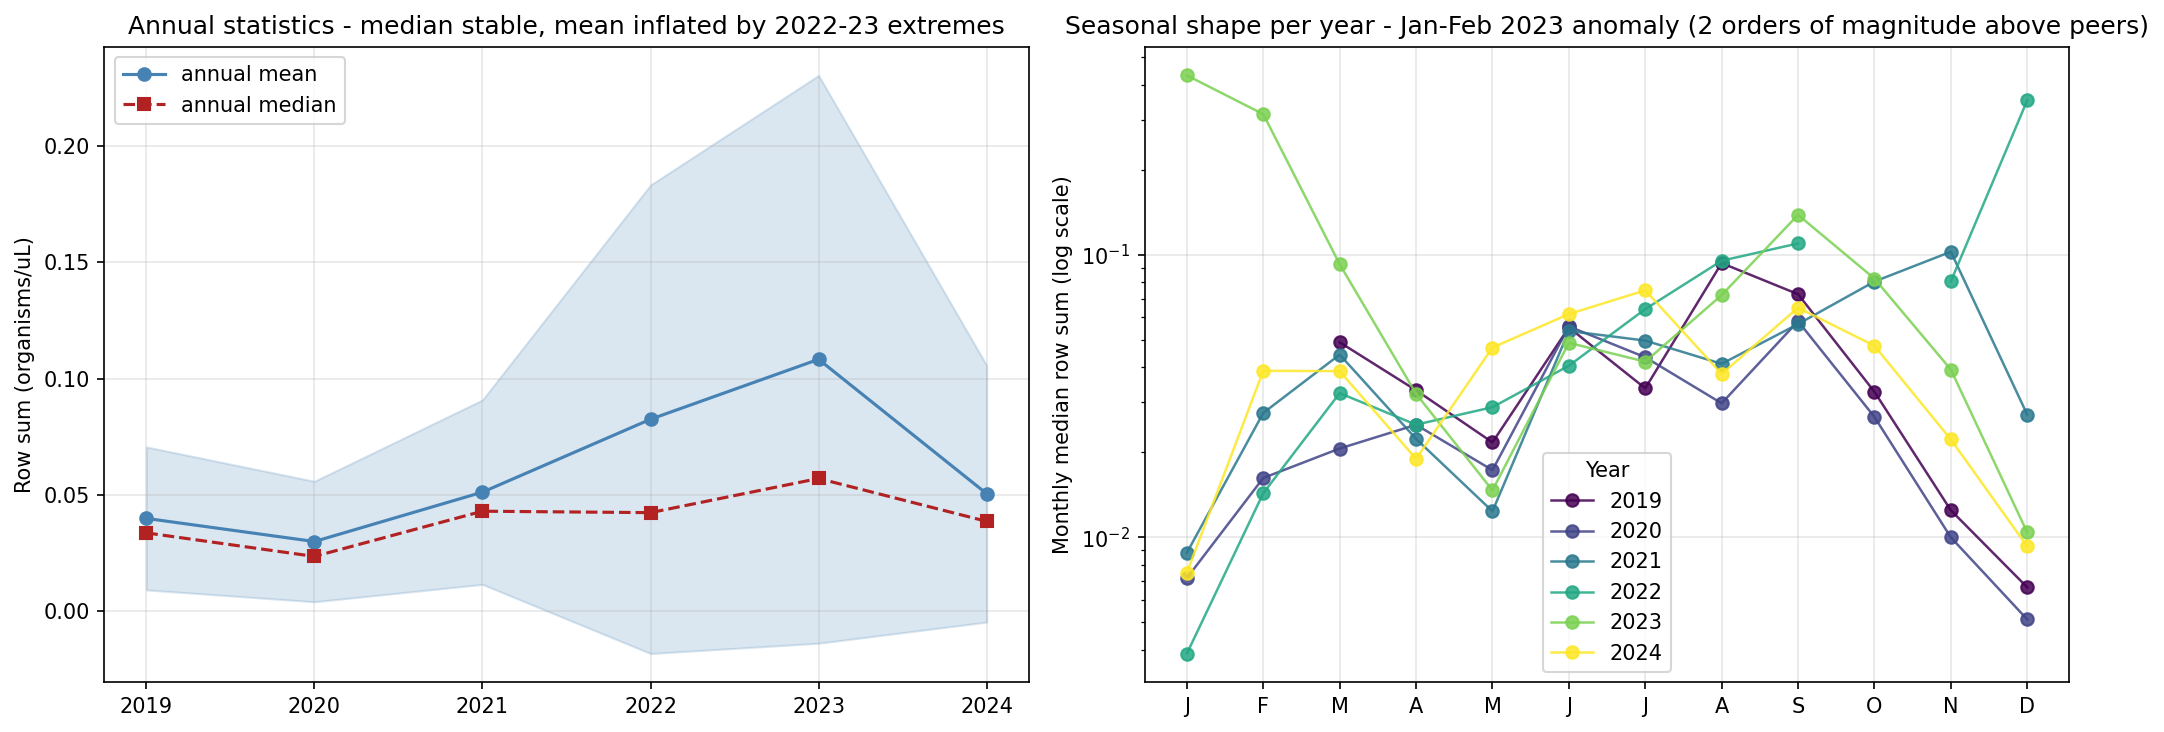
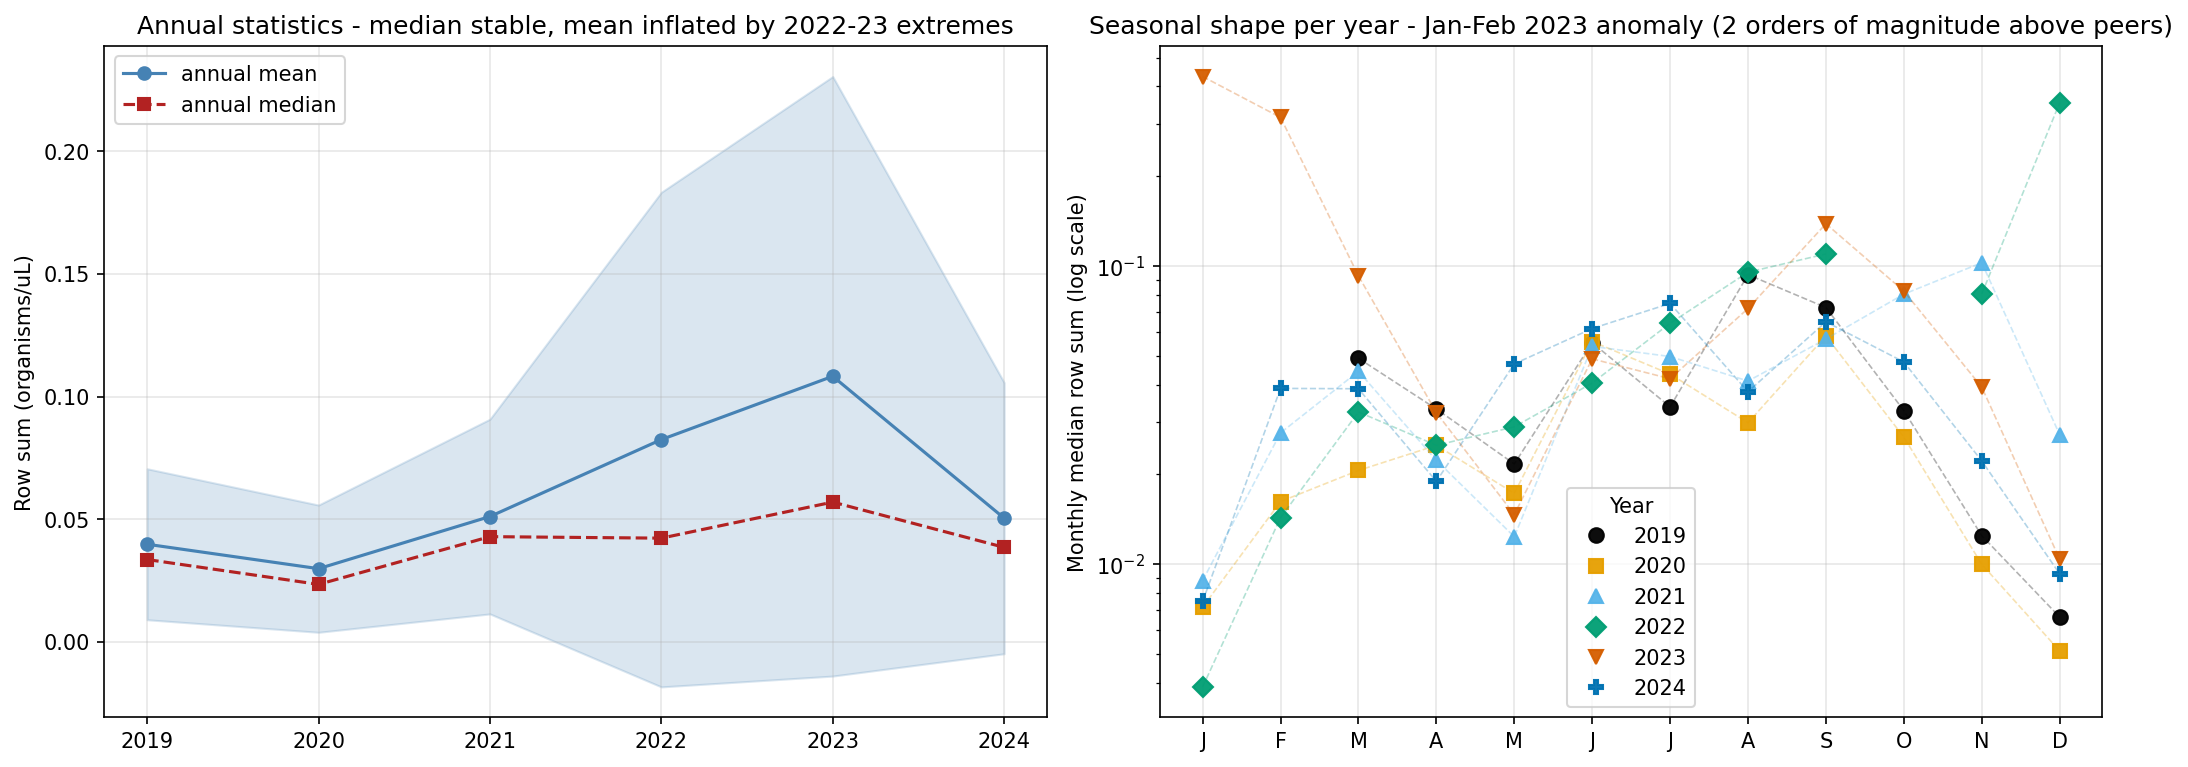
Fix fig3/fig4 exploratory plots and split sweep_final_metric by family
fig3: colorblind-safe Okabe-Ito palette + per-year markers, scatter
with faint dashed connectors instead of solid lines, legend moved
back inside the panel, constrained_layout to avoid title overlap.

fig4: correct row-0 ylabel (was mislabeled with the raw-count units,
which belong on the x axis), LaTeX-rendered title/subtitle, larger
fonts, single-line "taxon (~N% zeros)" panel titles computed directly
from the plotted data.

plot_final_metric now writes one figure per family group (bernoulli_median,
bernoulli_zero, nb, zinb) instead of 10 cramped panels in one figure; nb/zinb
panels overlay their activation-profile variants distinguished by marker
shape, and all panels show a min/max-over-seeds band alongside mean+-std.

Regenerated via dataset_analysis.py and sweep_analysis.py (both splits),
republished through publish_results.py; stale sweep_final_metric.png
files and their MANIFEST.json entries removed.

diff --git a/code/scripts/train/dataset_analysis.py b/code/scripts/train/dataset_analysis.py
@@ -169,7 +169,7 @@ def fig3_annual_seasonal(df_clean, taxa_cols, out_dir):
     annual  = df_clean.groupby("year")["row_sum"].agg(["median", "mean", "std"])
     monthly = df_clean.groupby(["year", "month"])["row_sum"].median().unstack(0)
 
-    fig, axes = plt.subplots(1, 2, figsize=(14, 5))
+    fig, axes = plt.subplots(1, 2, figsize=(14, 5), constrained_layout=True)
 
     # Left: annual stats
     years = annual.index
@@ -189,13 +189,18 @@ def fig3_annual_seasonal(df_clean, taxa_cols, out_dir):
     ax.grid(True, alpha=0.3)
 
     # Right: seasonal shape per year (log scale)
-    ax2    = axes[1]
-    colors = plt.cm.viridis(np.linspace(0, 1, 6))
+    # Okabe-Ito palette: colorblind-safe (deuteranopia/protanopia/tritanopia),
+    # paired with distinct markers so lines don't rely on color alone.
+    ax2 = axes[1]
+    year_colors  = ["#000000", "#E69F00", "#56B4E9", "#009E73", "#D55E00", "#0072B2"]
+    year_markers = ["o", "s", "^", "D", "v", "P"]
     month_labels = ["J","F","M","A","M","J","J","A","S","O","N","D"]
     for i, yr in enumerate([2019, 2020, 2021, 2022, 2023, 2024]):
         if yr in monthly.columns:
-            ax2.semilogy(monthly.index, monthly[yr], "o-",
-                         color=colors[i], lw=1.2, alpha=0.85, label=str(yr))
+            ax2.semilogy(monthly.index, monthly[yr], linestyle="--", lw=4.0,
+                         color=year_colors[i], alpha=0.3)
+            ax2.semilogy(monthly.index, monthly[yr], marker=year_markers[i], linestyle="none",
+                         color=year_colors[i], markersize=7, alpha=0.95, label=str(yr))
     ax2.set_xticks(range(1, 13))
     ax2.set_xticklabels(month_labels)
     ax2.set_title("Seasonal shape per year - Jan-Feb 2023 anomaly (2 orders of magnitude above peers)")
@@ -203,7 +208,6 @@ def fig3_annual_seasonal(df_clean, taxa_cols, out_dir):
     ax2.legend(title="Year")
     ax2.grid(True, alpha=0.3)
 
-    plt.tight_layout()
     path = os.path.join(out_dir, "fig3_annual_seasonal.png")
     plt.savefig(path, dpi=150, bbox_inches="tight")
     plt.close()
@@ -220,60 +224,59 @@ def fig4_distributions(df_clean, taxa_cols, out_dir, eps_fraction=EPS_FRACTION):
     eps = min_nonzero * eps_fraction
     print(f"  log-transform eps = {eps:.2e}  (min nonzero = {min_nonzero:.2e})")
 
-    selected = [
-        ("aulacoseira", "dominant  | ~3% zeros"),
-        ("cryptophyte", "common    | ~0% zeros"),
-        ("rotifer",     "intermed. | ~0% zeros"),
-        ("snowella",    "rare      | ~93% zeros"),
-    ]
+    selected = ["aulacoseira", "cryptophyte", "rotifer", "snowella"]
 
     fig, axes = plt.subplots(3, 4, figsize=(16, 10))
 
-    for ci, (taxon, label) in enumerate(selected):
+    for ci, taxon in enumerate(selected):
         raw  = df_clean[taxon].values.astype(float)
         logv = np.log(raw + eps)
         zlog = (logv - logv.mean()) / (logv.std() + 1e-10)
 
         # Row 0: raw counts
         axes[0, ci].hist(raw, bins=60, color="steelblue", alpha=0.8, edgecolor="none")
-        axes[0, ci].set_title(f"{taxon}\n({label})", fontsize=8)
+        axes[0, ci].set_title(f"{taxon} (~{(raw == 0).mean():.0%} zeros)", fontsize=14)
         axes[0, ci].text(
             0.97, 0.95,
-            f"skew={stats.skew(raw):.1f}\nzeros={(raw == 0).mean():.0%}",
-            transform=axes[0, ci].transAxes, ha="right", va="top", fontsize=7,
+            f"skew={stats.skew(raw):.1f}",
+            transform=axes[0, ci].transAxes, ha="right", va="top", fontsize=11,
             bbox=dict(boxstyle="round", fc="white", alpha=0.8),
         )
         axes[0, ci].grid(True, alpha=0.3)
+        axes[0, ci].tick_params(labelsize=11)
 
         # Row 1: log-transformed
         axes[1, ci].hist(logv, bins=60, color="darkorange", alpha=0.8, edgecolor="none")
         axes[1, ci].text(
             0.97, 0.95, f"skew={stats.skew(logv):.1f}",
-            transform=axes[1, ci].transAxes, ha="right", va="top", fontsize=7,
+            transform=axes[1, ci].transAxes, ha="right", va="top", fontsize=11,
             bbox=dict(boxstyle="round", fc="white", alpha=0.8),
         )
         axes[1, ci].grid(True, alpha=0.3)
+        axes[1, ci].tick_params(labelsize=11)
 
         # Row 2: log + z-score vs N(0,1)
         axes[2, ci].hist(zlog, bins=60, color="seagreen", alpha=0.8,
-                         edgecolor="none", density=True, label="log+zscore")
+                         edgecolor="none", density=True, label="bin")
         x = np.linspace(zlog.min(), zlog.max(), 200)
-        axes[2, ci].plot(x, stats.norm.pdf(x), "k--", lw=1.5, label="N(0,1)")
+        axes[2, ci].plot(x, stats.norm.pdf(x), "k--", lw=1.5, label=r"$\mathcal{N}(0,1)$")
         axes[2, ci].text(
             0.97, 0.95, f"skew={stats.skew(zlog):.1f}",
-            transform=axes[2, ci].transAxes, ha="right", va="top", fontsize=7,
+            transform=axes[2, ci].transAxes, ha="right", va="top", fontsize=11,
             bbox=dict(boxstyle="round", fc="white", alpha=0.8),
         )
-        axes[2, ci].legend(fontsize=6)
+        axes[2, ci].legend(fontsize=11)
         axes[2, ci].grid(True, alpha=0.3)
+        axes[2, ci].tick_params(labelsize=11)
 
-    axes[0, 0].set_ylabel("Raw counts\n(organisms/uL)")
-    axes[1, 0].set_ylabel("Log-transformed\nlog(v + eps)")
-    axes[2, 0].set_ylabel("Log + z-score\nvs N(0,1)")
+    axes[0, 0].set_ylabel("Frequency", fontsize=13)
+    axes[1, 0].set_ylabel("Frequency", fontsize=13)
+    axes[2, 0].set_ylabel("Density", fontsize=13)
     fig.suptitle(
-        "Marginal distributions: raw -> log-transform -> z-score\n"
-        "All taxa are zero-inflated and right-skewed; log-transform substantially reduces skew",
-        fontsize=11, y=1.01,
+        r"Marginal distributions: 1) raw  -  2) log-transform  -  3) $z$-score" "\n"
+        r"X axis: 1) organisms/uL (raw counts)   2) $\log(v + \epsilon)$   "
+        r"3) $z$-score (standardized log, dimensionless)",
+        fontsize=16, y=1.01,
     )
 
     plt.tight_layout()

diff --git a/code/src/models/visualization.py b/code/src/models/visualization.py
@@ -202,49 +202,97 @@ def load_curves(csv_path: Path, col: str) -> pd.Series | None:
     return df.set_index("epoch")[col]
 
 
-def aggregate_curves(csv_paths: list[Path], col: str) -> tuple[pd.Series, pd.Series] | None:
-    """Aggregate a metric across seeds; return (mean, std) or None if all failed."""
+def _aggregate_df(csv_paths: list[Path], col: str) -> pd.DataFrame | None:
     curves = [load_curves(p, col) for p in csv_paths]
     curves = [c for c in curves if c is not None]
     if not curves:
         return None
-    df = pd.concat(curves, axis=1)
+    return pd.concat(curves, axis=1)
+
+
+def aggregate_curves(csv_paths: list[Path], col: str) -> tuple[pd.Series, pd.Series] | None:
+    """Aggregate a metric across seeds; return (mean, std) or None if all failed."""
+    df = _aggregate_df(csv_paths, col)
+    if df is None:
+        return None
     return df.mean(axis=1), df.std(axis=1)
 
 
+def aggregate_curves_extrema(
+    csv_paths: list[Path], col: str
+) -> tuple[pd.Series, pd.Series, pd.Series, pd.Series] | None:
+    """Aggregate a metric across seeds; return (mean, std, min, max) or None if all failed."""
+    df = _aggregate_df(csv_paths, col)
+    if df is None:
+        return None
+    return df.mean(axis=1), df.std(axis=1), df.min(axis=1), df.max(axis=1)
+
+
+# Panels for plot_final_metric: each becomes its own figure/file. nb and zinb
+# each bundle their 4 activation profiles (plain/relu/sigmoid/softmax) into one
+# plot, distinguished by marker shape so profiles stay comparable across L.
+PANEL_GROUPS = [
+    ("bernoulli_median", ["bernoulli_median"]),
+    ("bernoulli_zero",   ["bernoulli_zero"]),
+    ("nb",               ["nb", "nb_relu", "nb_sigmoid", "nb_softmax"]),
+    ("zinb",             ["zinb", "zinb_relu", "zinb_sigmoid", "zinb_softmax"]),
+]
+
+PROFILE_MARKERS = {"": "o", "relu": "^", "sigmoid": "s", "softmax": "D"}
+
+
+def _profile_of(family: str, base: str) -> str:
+    return "" if family == base else family[len(base) + 1:]
+
+
 def plot_final_metric(runs, figures_dir: Path):
-    fig, axes = plt.subplots(1, len(FAMILY_META), figsize=(14, 4), sharey=False)
-    fig.suptitle("Final val metric vs L (last epoch, mean ± std over seeds)", fontsize=13)
+    for title, families in PANEL_GROUPS:
+        fig, ax = plt.subplots(1, 1, figsize=(6, 4.5))
+        all_xs: set[int] = set()
 
-    for ax, (family, meta) in zip(axes, FAMILY_META.items()):
-        col = meta["col"]
-        family_runs = runs.get(family, {})
-        xs, means, stds = [], [], []
-        for l_val in sorted(family_runs):
-            agg = aggregate_curves(family_runs[l_val], col)
-            if agg is None:
+        for family in families:
+            meta = FAMILY_META[family]
+            col = meta["col"]
+            family_runs = runs.get(family, {})
+            xs, means, stds, mins, maxs = [], [], [], [], []
+            for l_val in sorted(family_runs):
+                agg = aggregate_curves_extrema(family_runs[l_val], col)
+                if agg is None:
+                    continue
+                mean_curve, std_curve, min_curve, max_curve = agg
+                xs.append(l_val)
+                means.append(mean_curve.iloc[-1])
+                stds.append(std_curve.iloc[-1])
+                mins.append(min_curve.iloc[-1])
+                maxs.append(max_curve.iloc[-1])
+            if not xs:
                 continue
-            mean_curve, std_curve = agg
-            xs.append(l_val)
-            means.append(mean_curve.iloc[-1])
-            stds.append(std_curve.iloc[-1])
-        color = COLORS[family]
-        ax.errorbar(xs, means, yerr=stds, fmt="o-", color=color, linewidth=2,
-                    markersize=7, capsize=4, label=family)
-        for x, y, s in zip(xs, means, stds):
-            ax.annotate(f"{y:.3f}±{s:.3f}", (x, y), textcoords="offset points",
-                        xytext=(0, 8), ha="center", fontsize=7)
-        ax.set_title(family)
-        ax.set_xlabel("L (hidden units)")
-        ax.set_ylabel(meta["label"])
-        ax.set_xticks(xs)
-        ax.grid(True, alpha=0.3)
+            all_xs.update(xs)
+            color  = COLORS[family]
+            marker = PROFILE_MARKERS.get(_profile_of(family, title), "o")
+            ax.fill_between(xs, mins, maxs, color=color, alpha=0.12, zorder=0)
+            ax.errorbar(xs, means, yerr=stds, fmt=f"{marker}-", color=color,
+                        linewidth=2, markersize=7, capsize=4, label=family)
+            if len(families) == 1:
+                for x, y, s in zip(xs, means, stds):
+                    ax.annotate(f"{y:.3f}±{s:.3f}", (x, y), textcoords="offset points",
+                                xytext=(0, 8), ha="center", fontsize=7)
 
-    fig.tight_layout()
-    out = figures_dir / "sweep_final_metric.png"
-    fig.savefig(out, dpi=150)
-    print(f"Saved: {out}")
-    plt.close(fig)
+        ax.set_title(f"{title} — final val metric vs L\n(last epoch, mean ± std, shaded = min/max over seeds)",
+                     fontsize=10)
+        ax.set_xlabel("L (hidden units)")
+        ax.set_ylabel(FAMILY_META[families[0]]["label"])
+        if all_xs:
+            ax.set_xticks(sorted(all_xs))
+        ax.grid(True, alpha=0.3)
+        if len(families) > 1:
+            ax.legend(fontsize=8)
+
+        fig.tight_layout()
+        out = figures_dir / f"sweep_final_metric_{title}.png"
+        fig.savefig(out, dpi=150)
+        print(f"Saved: {out}")
+        plt.close(fig)
 
 
 def plot_sweep_curves(runs, figures_dir: Path):
